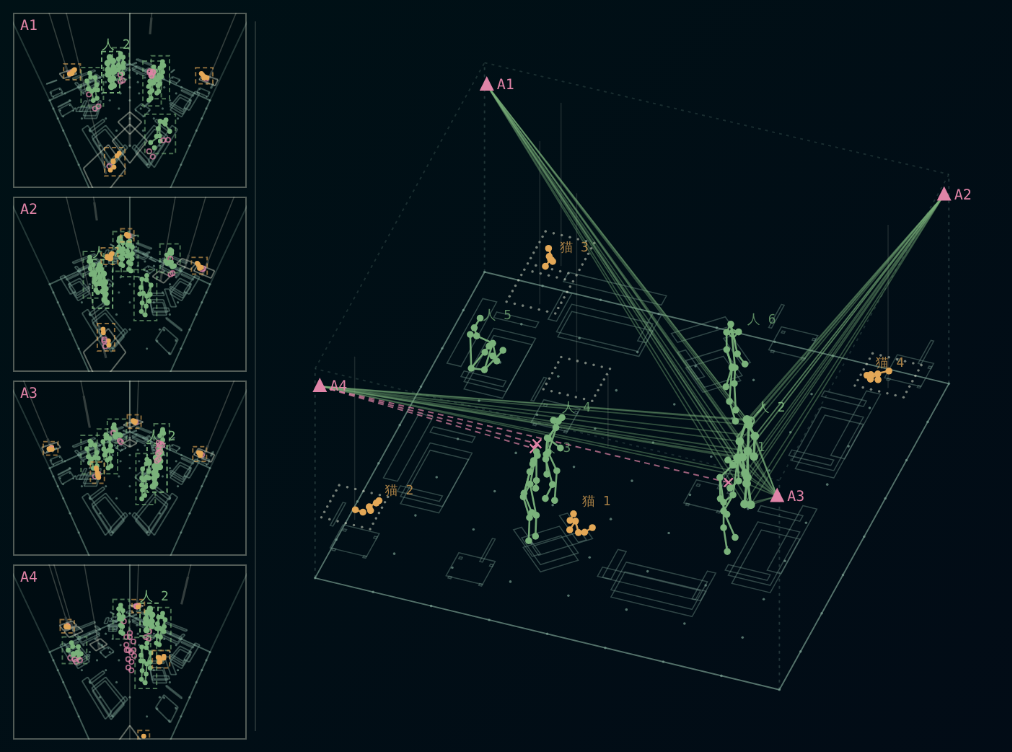
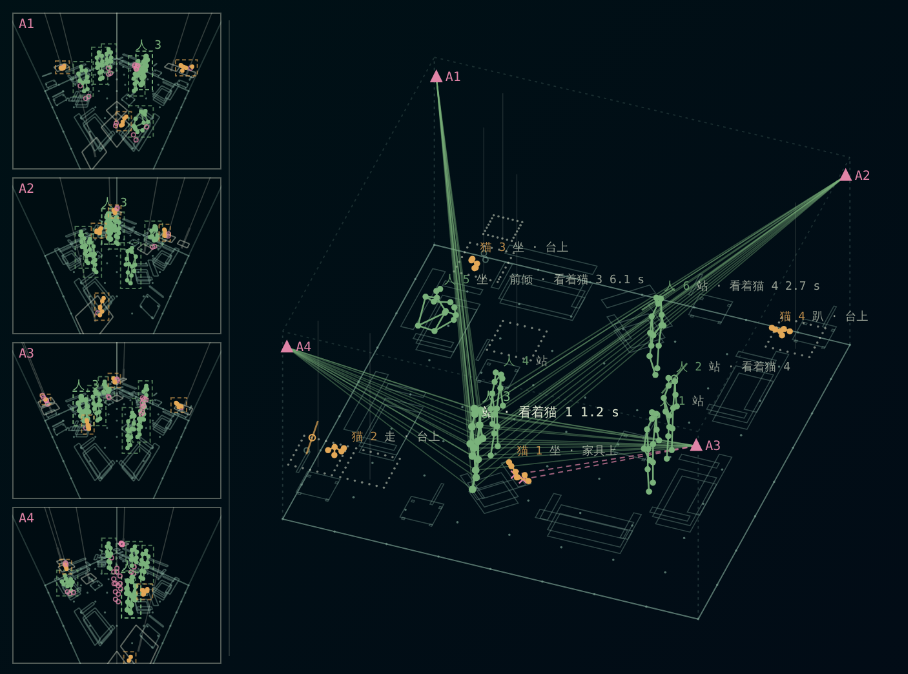
Lab 2-17：重截文档里的三张图（普通摄像头 / 深度相机 / 方案 B）
Claude-Session: https://claude.ai/code/session_01RPazAhyz4d1boJ2eLJkX2R

diff --git a/项目二_感知层.md b/项目二_感知层.md
@@ -208,9 +208,9 @@
 
 作者看过线稿后改了方向：「把它做立体的，有一些平面视图，然后在旁边生成一个低保真、用点抽象化的立体模型……通过这些摄像头去观察其中的人和猫，抽象出一个立体模型，在里面看到它们真正的空间位置。」于是单开一台，放在第八段最后：
 
-![Lab 2-17 方案 A：左边四台摄像头的画面，右边用点抽象的立体模型](项目二_感知层/lab-2-17-a.png)
+![Lab 2-17 方案 A 普通摄像头：左边四台摄像头的画面，右边从读数重建的立体模型，名字后面是读到的在做什么](项目二_感知层/lab-2-17-a.png)
 
-![Lab 2-17 方案 B：俯视 + 选中的那个身体到四个固定点的距离，右边每个身体一个点](项目二_感知层/lab-2-17-b.png)
+![Lab 2-17 方案 B：俯视与选中那个身体量到的四段距离、残差、解出的高度；右边四段距离在解出那一高度上的截面弧（叠上了真实位置）](项目二_感知层/lab-2-17-b.png)
 
 
 - **左边一列**（方案 A）：四台摄像头各自拍到的画面，竖排，按针孔相机从上角往房间中心看。画的只是点和线：地面轮廓、过道交叉点、家具顶面、单元的芯与台面、人和猫的关键点。这台摄像头看见的点画实心，在画面里却被挡住的点画粉色空心，看见的点外面框一个虚线框（就是检测框）。
@@ -238,6 +238,8 @@
 - 每一刻与仿真里的真实情况对照，读错的在台架上标粉色，指针停着的那个另写真实的。
 
 **方案 B**：四段距离各带 0.08 m 误差，隔着身体（别人的或戴的人自己的）量的那段读长 0.35 m；用高斯—牛顿最小二乘解出 (x, y, 高度)，固定点上方那个镜像解丢掉。残差平方和超过 χ²₁ 的 95% 线就标「四段对不上」。坐不坐看座位压力，猫在哪一台看单元称重（方案 B 本来就带这两样）；解出的高度单独画出来对照。
+
+![Lab 2-17 方案 A 深度相机：画面里超出测距的点画空心](项目二_感知层/lab-2-17-depth.png)
 
 **这间房的几何**（解析算的）：距离量准到 ±10 cm 时，四个上角的固定点给出的水平位置误差约 ±11–13 cm、高度约 ±9–12 cm，四个点在同一高度也解得出高度。四个点只多出一个距离，所以一段读错**看得出有错、看不出是哪一段**：试过逐段去掉重算、再加上座位压力 / 称重给的高度，挑对那一段的比例只有 13–25%，所以台架上只标「对不上」，不去猜是哪一段。
 
